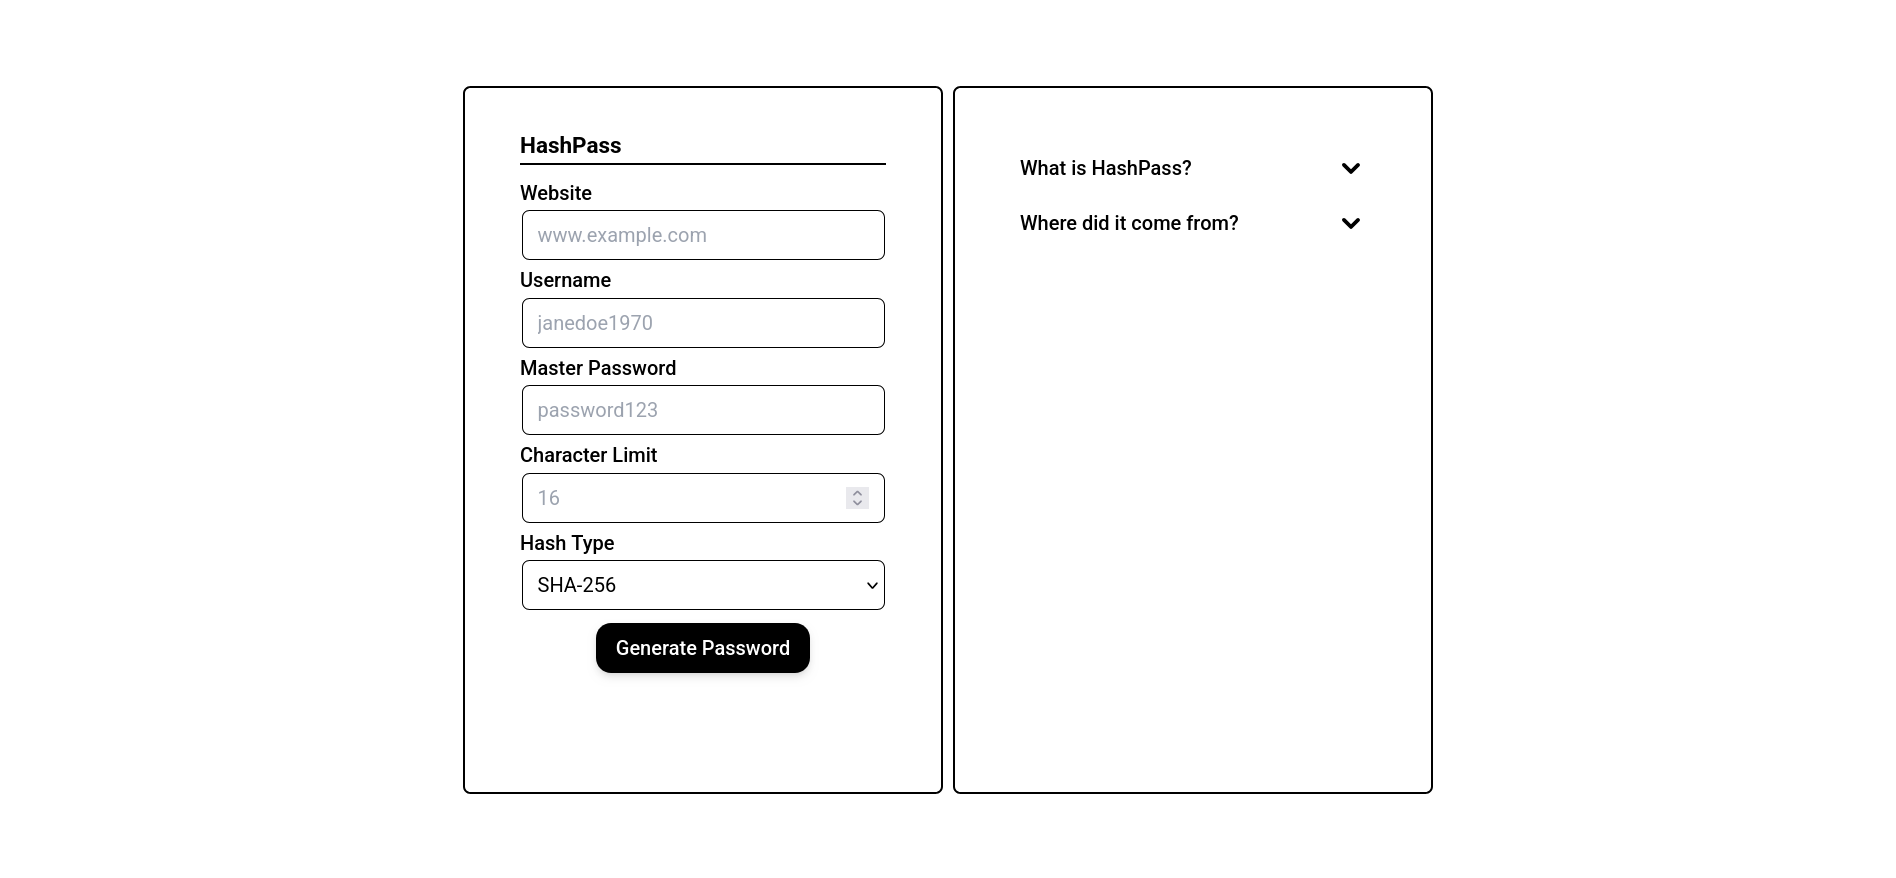
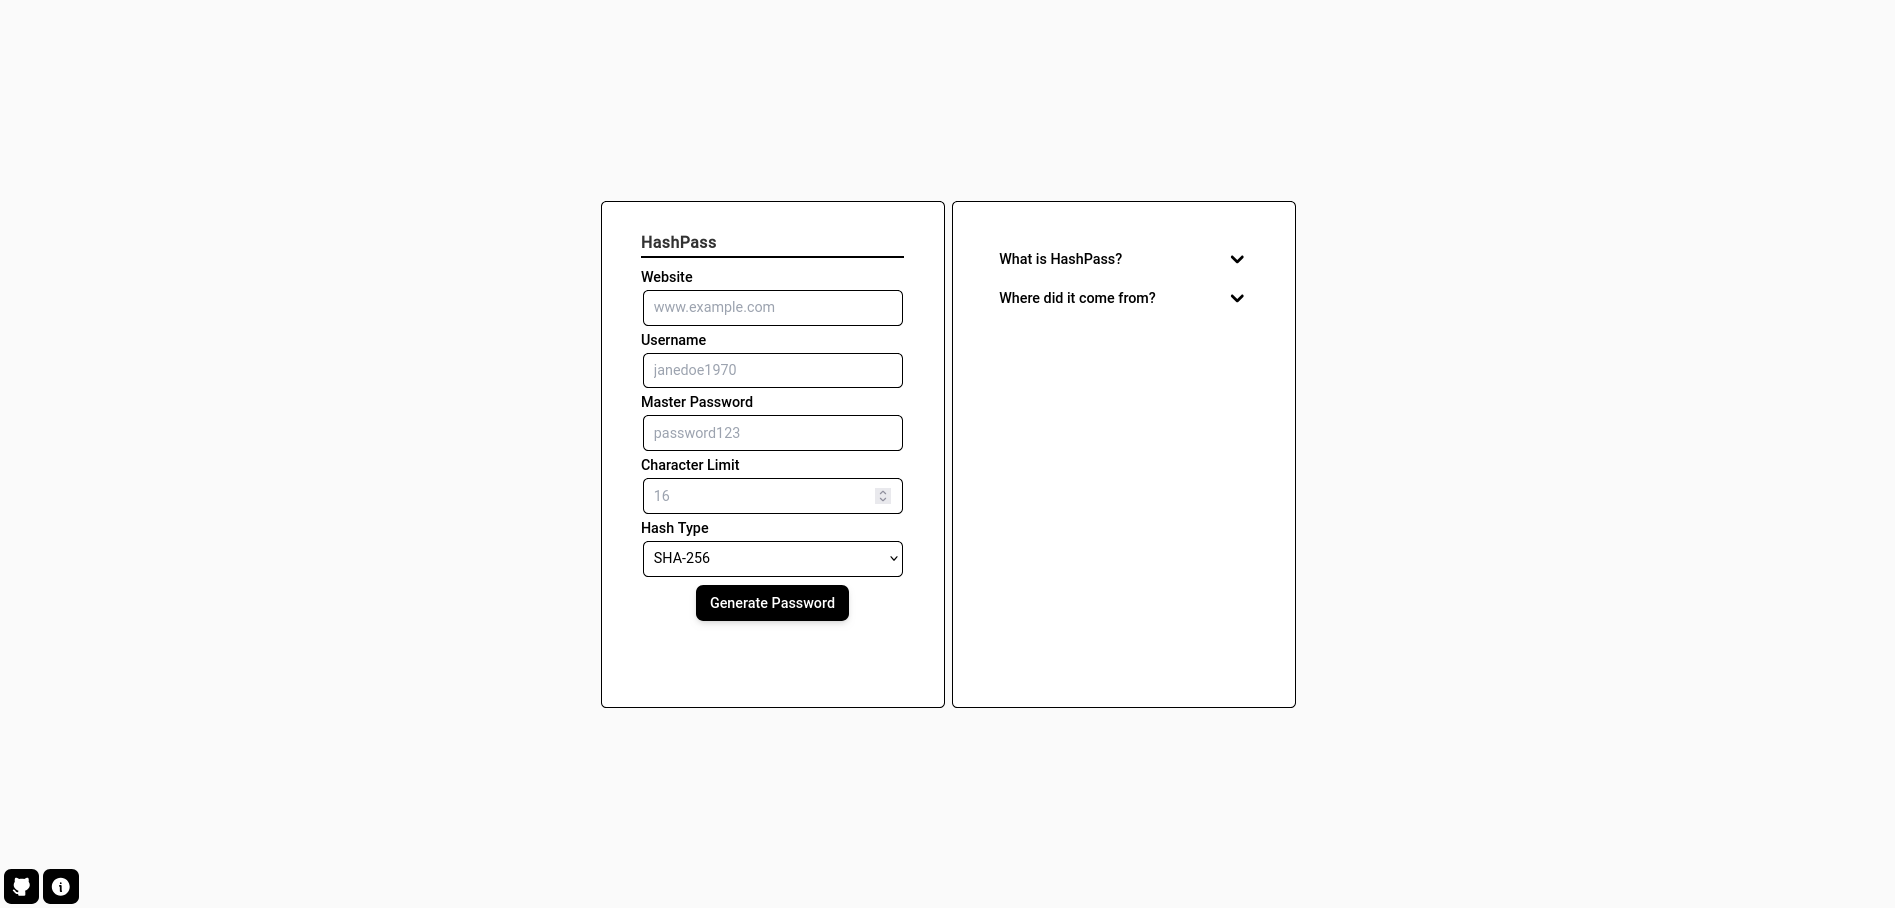
feat: Add links to personal site and github

diff --git a/src/lib/icons/github.svelte b/src/lib/icons/github.svelte
@@ -1,0 +1,10 @@
+<svg xmlns="http://www.w3.org/2000/svg" width="24" height="24" viewBox="0 0 24 24"
+  ><title>View Source</title><g id="github_fill" fill="none"
+    ><path
+      d="M24 0v24H0V0zM12.593 23.258l-.011.002-.071.035-.02.004-.014-.004-.071-.035c-.01-.004-.019-.001-.024.005l-.004.01-.017.428.005.02.01.013.104.074.015.004.012-.004.104-.074.012-.016.004-.017-.017-.427c-.002-.01-.009-.017-.017-.018m.265-.113-.013.002-.185.093-.01.01-.003.011.018.43.005.012.008.007.201.093c.012.004.023 0 .029-.008l.004-.014-.034-.614c-.003-.012-.01-.02-.02-.022m-.715.002a.023.023 0 0 0-.027.006l-.006.014-.034.614c0 .012.007.02.017.024l.015-.002.201-.093.01-.008.004-.011.017-.43-.003-.012-.01-.01z"
+    /><path
+      fill="currentColor"
+      d="M7.024 2.31a9.08 9.08 0 0 1 2.125 1.046A11.432 11.432 0 0 1 12 3c.993 0 1.951.124 2.849.355a9.08 9.08 0 0 1 2.124-1.045c.697-.237 1.69-.621 2.28.032.4.444.5 1.188.571 1.756.08.634.099 1.46-.111 2.28C20.516 7.415 21 8.652 21 10c0 2.042-1.106 3.815-2.743 5.043a9.456 9.456 0 0 1-2.59 1.356c.214.49.333 1.032.333 1.601v3a1 1 0 0 1-1 1H9a1 1 0 0 1-1-1v-.991c-.955.117-1.756.013-2.437-.276-.712-.302-1.208-.77-1.581-1.218-.354-.424-.74-1.38-1.298-1.566a1 1 0 0 1 .632-1.898c.666.222 1.1.702 1.397 1.088.48.62.87 1.43 1.63 1.753.313.133.772.22 1.49.122L8 17.98a3.986 3.986 0 0 1 .333-1.581 9.455 9.455 0 0 1-2.59-1.356C4.106 13.815 3 12.043 3 10c0-1.346.483-2.582 1.284-3.618-.21-.82-.192-1.648-.112-2.283l.005-.038c.073-.582.158-1.267.566-1.719.59-.653 1.584-.268 2.28-.031Z"
+    /></g
+  ></svg
+>

diff --git a/src/lib/icons/info.svelte b/src/lib/icons/info.svelte
@@ -1,0 +1,10 @@
+<svg xmlns="http://www.w3.org/2000/svg" width="24" height="24" viewBox="0 0 24 24"
+  ><title>Made by April Hall</title><g id="information_fill" fill="none"
+    ><path
+      d="M24 0v24H0V0zM12.593 23.258l-.011.002-.071.035-.02.004-.014-.004-.071-.035c-.01-.004-.019-.001-.024.005l-.004.01-.017.428.005.02.01.013.104.074.015.004.012-.004.104-.074.012-.016.004-.017-.017-.427c-.002-.01-.009-.017-.017-.018m.265-.113-.013.002-.185.093-.01.01-.003.011.018.43.005.012.008.007.201.093c.012.004.023 0 .029-.008l.004-.014-.034-.614c-.003-.012-.01-.02-.02-.022m-.715.002a.023.023 0 0 0-.027.006l-.006.014-.034.614c0 .012.007.02.017.024l.015-.002.201-.093.01-.008.004-.011.017-.43-.003-.012-.01-.01z"
+    /><path
+      fill="currentColor"
+      d="M12 2c5.523 0 10 4.477 10 10s-4.477 10-10 10S2 17.523 2 12 6.477 2 12 2m-.01 8H11a1 1 0 0 0-.117 1.993L11 12v4.99c0 .52.394.95.9 1.004l.11.006h.49a1 1 0 0 0 .596-1.803L13 16.134V11.01c0-.52-.394-.95-.9-1.004zM12 7a1 1 0 1 0 0 2 1 1 0 0 0 0-2"
+    /></g
+  ></svg
+>

diff --git a/src/routes/+page.svelte b/src/routes/+page.svelte
@@ -1,12 +1,14 @@
 <script lang="ts">
   import FormInput from '$lib/components/FormInput.svelte';
   import Accordion from '$lib/components/Accordion.svelte';
+  import OSSButton from '$lib/components/OSSButton.svelte';
   import Close from '$lib/icons/close.svelte';
   import { enhance } from '$app/forms';
   import { createToaster, melt } from '@melt-ui/svelte';
   import { flip } from 'svelte/animate';
   import { fly } from 'svelte/transition';
   import { page } from '$app/state';
+  import OssButton from '$lib/components/OSSButton.svelte';
 
   interface ToastData {
     title: string;
@@ -131,3 +133,5 @@
     </div>
   {/each}
 </div>
+
+<OSSButton className="fixed bottom-1 left-1" />

diff --git a/src/lib/components/OSSButton.svelte b/src/lib/components/OSSButton.svelte
@@ -1,0 +1,18 @@
+<script lang="ts">
+  import Github from '$lib/icons/github.svelte';
+  import Info from '$lib/icons/info.svelte';
+  interface props {
+    className?: String;
+  }
+
+  const { className = '' }: props = $props();
+</script>
+
+<div class={`flex gap-1 ${className}`}>
+  <a class="rounded-lg bg-black p-2 text-white" href="https://github.com/arithefirst/hashpass" rel="noreferrer" target="_blank">
+    <Github />
+  </a>
+  <a class="rounded-lg bg-black p-2 text-white" href="https://www.arithefirst.com" rel="noreferrer" target="_blank">
+    <Info />
+  </a>
+</div>
